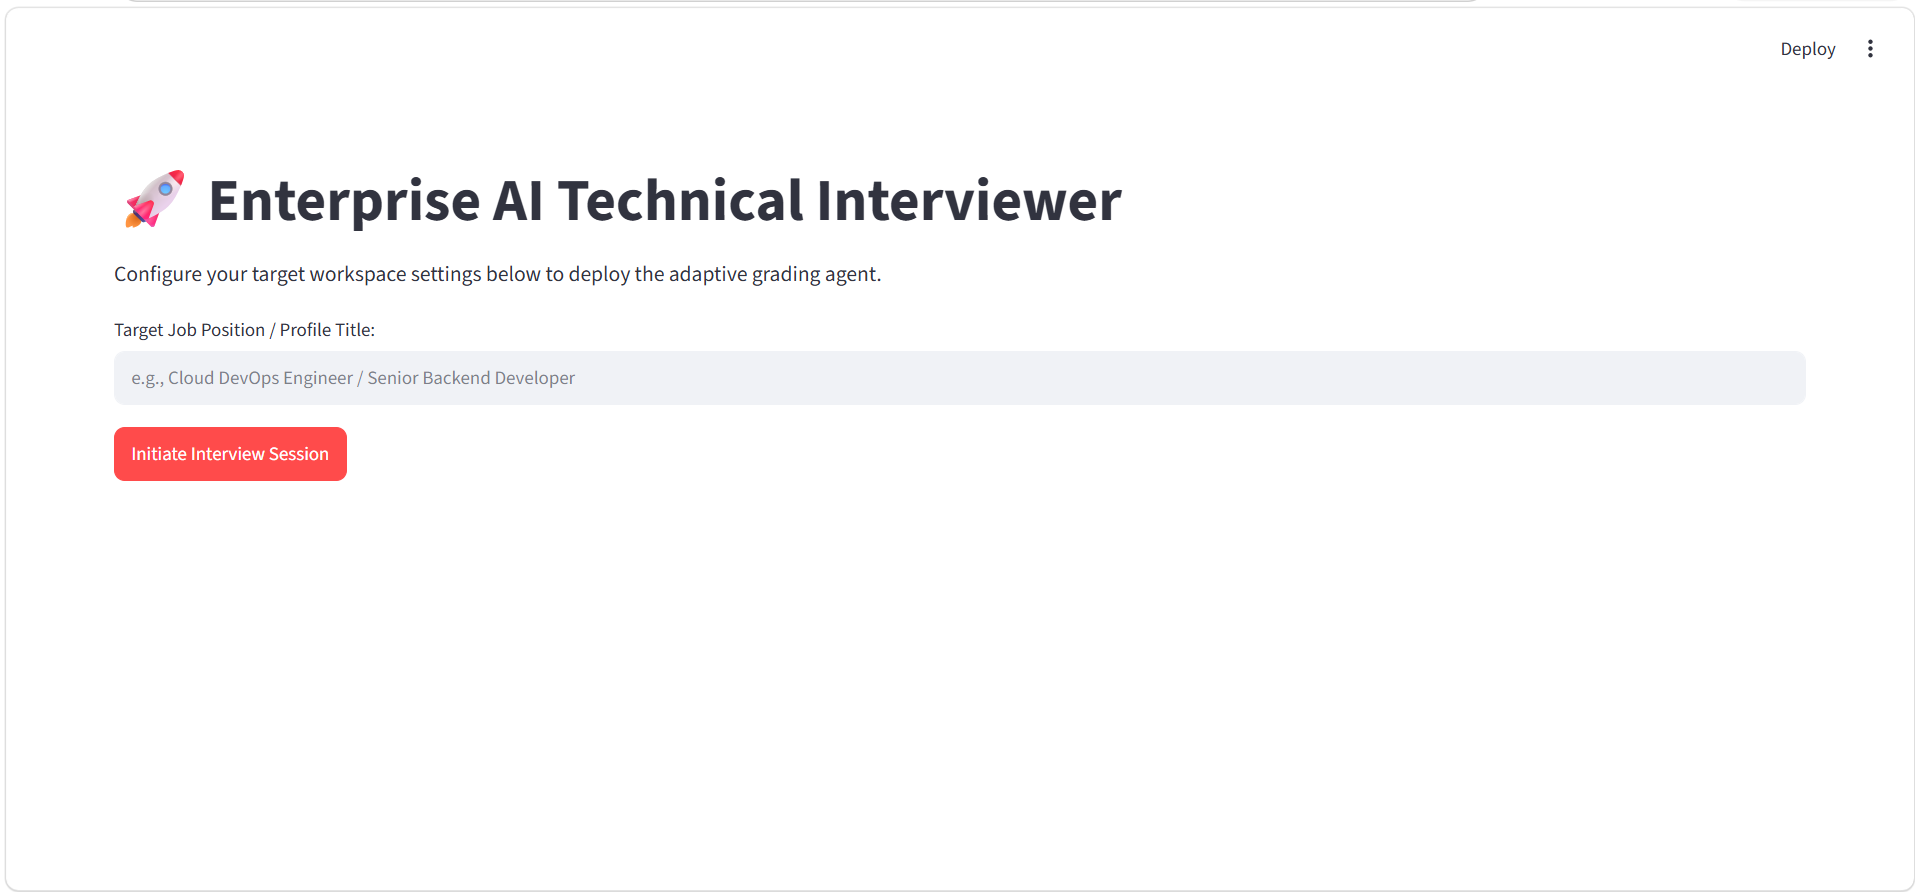
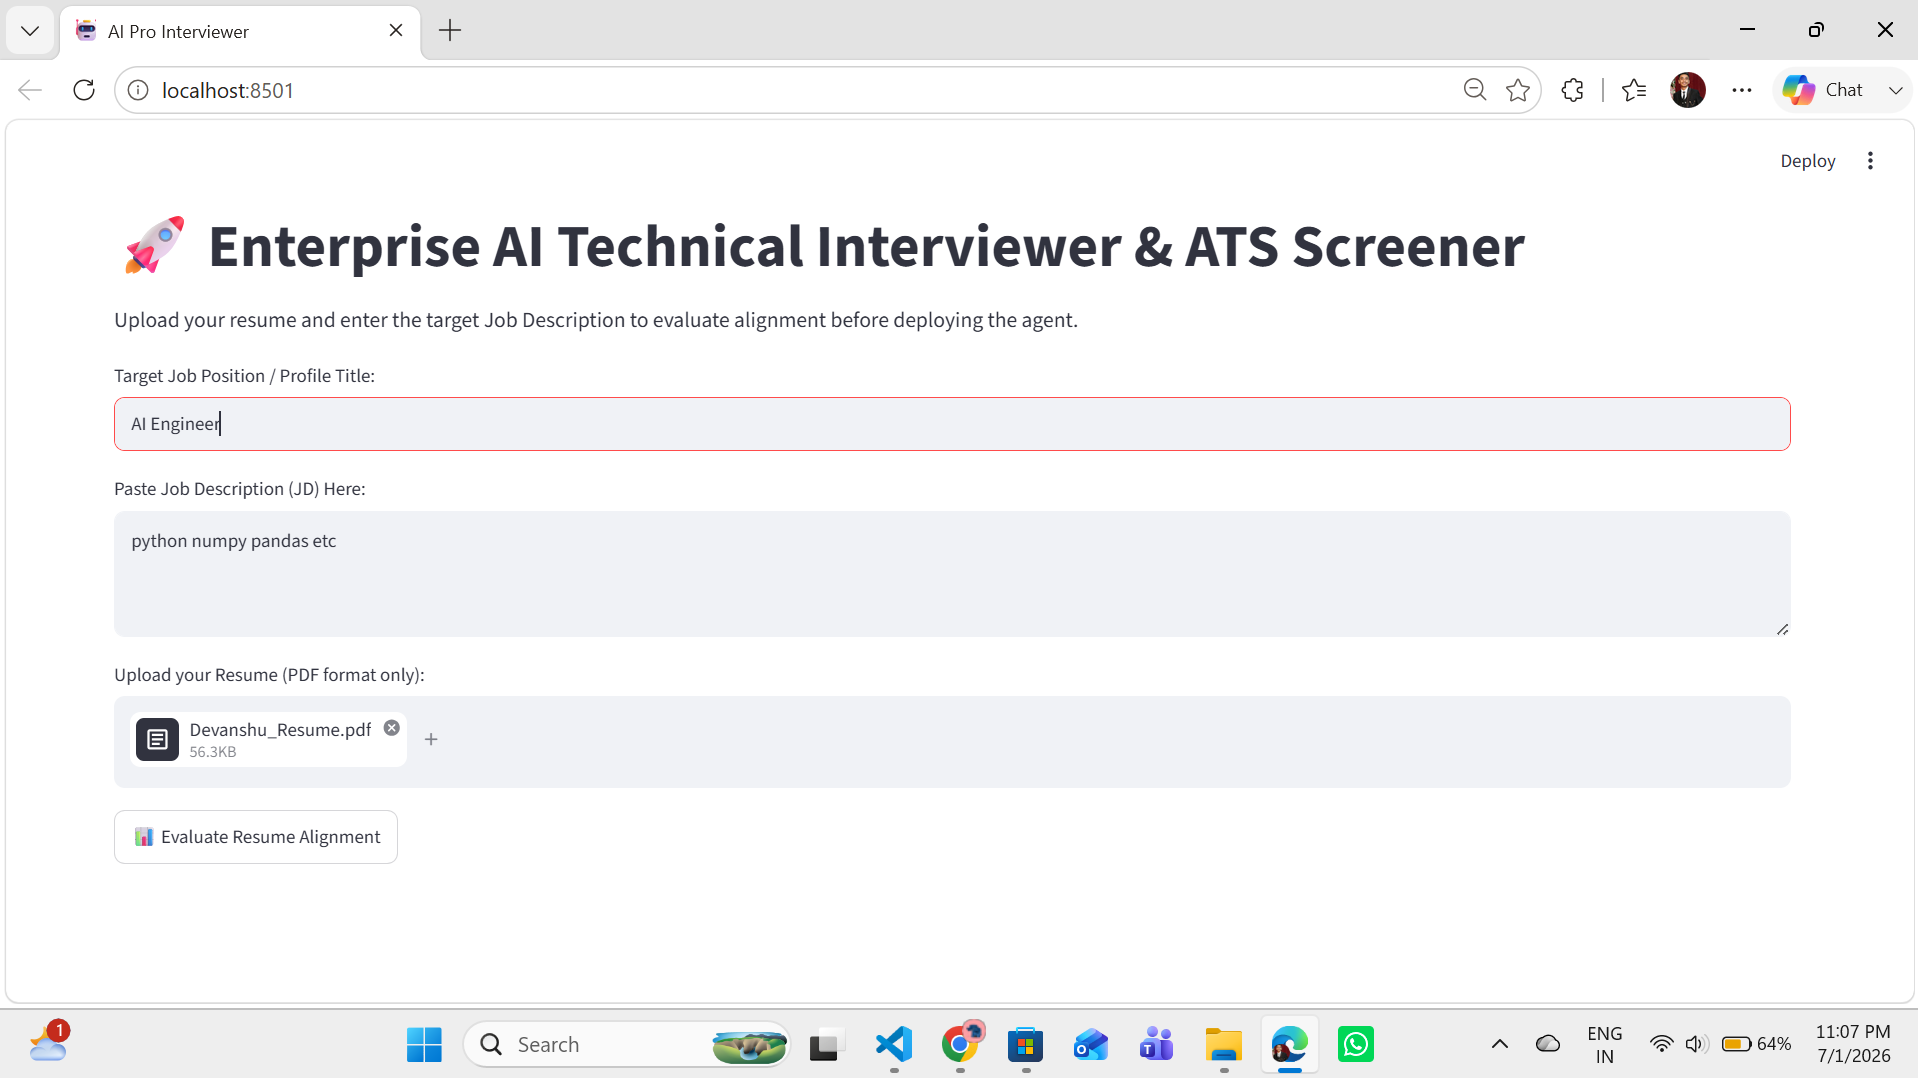
mock-interview

diff --git a/core/ai_engine.py b/core/ai_engine.py
@@ -16,21 +16,75 @@ else:
 # Sabse tez aur best free model technical interview ke liye
 MODEL_NAME = "llama-3.3-70b-versatile"
 
-def get_next_question(role, history):
+
+def check_ats_score(resume_text, job_description):
+    """
+    Compares the uploaded resume with the Job Description using Groq.
+    Returns scores, missing keywords, and screening verdict.
+    """
+    if not client:
+        return "⚠️ GROQ_API_KEY Missing: Cannot parse ATS score."
+
+    prompt = f"""
+You are an advanced ATS (Applicant Tracking System) algorithm and an expert HR data scientist.
+Analyze the provided Resume Text against the Job Description (JD).
+
+Return the evaluation strictly in this markdown format:
+
+### 📊 ATS Match Score: xx%
+---
+**Verdict:** [Proceed to Interview] OR [Resume Needs Improvement - Missing Core Skills]
+---
+### 🔍 Detailed Breakdown:
+* **Missing Key Skills/Keywords:** - ...
+* **Profile Optimization Feedback:** - ...
+* **Why this verdict?** - ...
+
+Job Description (JD):
+{job_description}
+
+Resume Text:
+{resume_text}
+"""
+
+    try:
+        response = client.chat.completions.create(
+            model=MODEL_NAME,
+            messages=[{"role": "user", "content": prompt}],
+            temperature=0.3
+        )
+        return response.choices[0].message.content
+    except Exception as e:
+        return f"ATS Screening Error: {str(e)}"
+
+
+def get_next_question(role, history, job_desc=""):
+    """
+    Generates the next interview question based on the role, previous history,
+    and optionally tailors it to the provided Job Description (JD).
+    """
     if not client:
         return "⚠️ GROQ_API_KEY Missing: Check your .env file setup."
 
-    context = f"""
-You are an elite technical interviewer conducting a live interview for the '{role}' position.
-Review previous conversation and ask ONLY ONE progressive technical interview question.
-Do not explain. Do not give feedback. Do not ask multiple questions.
-Return only the interview question.
+    # Baseline context
+    context = f"You are an elite technical interviewer conducting a live interview for the '{role}' position."
+    
+    # Agar Job Description available hai, toh context ko customize karo
+    if job_desc:
+        context += f"\nHere is the target Job Description for this role:\n{job_desc}\nTailor your questions to map these exact requirements."
+
+    context += """
+Review the previous conversation history and ask ONLY ONE progressive technical interview question.
+CRITICAL LAWS:
+1. Return ONLY the plain text of the question.
+2. Do NOT use markdown formatting, do NOT use bold marks (**), and do NOT use bullet points.
+3. Do NOT explain or give feedback during the conversation.
+4. Keep the question crisp and straightforward.
 """
 
     # History format set karo
     messages = [{"role": "system", "content": context}]
     for m in history:
-        # Groq standard roles use karta hai: 'user' ya 'assistant'
         role_type = "assistant" if m['role'] == "interviewer" else "user"
         messages.append({"role": role_type, "content": m['content']})
 
@@ -43,6 +97,7 @@ Return only the interview question.
         return response.choices[0].message.content
     except Exception as e:
         return f"Groq AI Error: {str(e)}"
+
 
 def get_final_analytics(role, history):
     if not client:

diff --git a/app.py b/app.py
@@ -1,10 +1,11 @@
 import streamlit as st
 import base64
-from core.ai_engine import get_next_question, get_final_analytics
+import pypdf
+from core.ai_engine import get_next_question, get_final_analytics, check_ats_score 
 from core.voice_engine import listen_to_user, generate_audio_base64
-from ui.components import render_camera, DummyVideoProcessor # <- यहाँ इम्पोर्ट कर लिया
+from ui.components import render_camera, DummyVideoProcessor 
 from ui.dashboard import render_scorecard
-from streamlit_webrtc import webrtc_streamer, RTCConfiguration # <- इम्पोर्ट यहाँ शिफ्ट कर दिया
+from streamlit_webrtc import webrtc_streamer, RTCConfiguration 
 
 st.set_page_config(page_title="AI Pro Interviewer", page_icon="🤖", layout="wide")
 
@@ -18,24 +19,53 @@ if "temp_user_response" not in st.session_state: st.session_state.temp_user_resp
 
 MAX_QUESTIONS = 4
 
-# --- STEP 1: INITIAL PROFILE SCREEN ---
+# --- STEP 1: INITIAL PROFILE SCREEN + ATS CHECK ---
 if st.session_state.stage == "SETUP":
-    st.title("🚀 Enterprise AI Technical Interviewer")
-    st.markdown("Configure your target workspace settings below to deploy the adaptive grading agent.")
+    st.title("🚀 Enterprise AI Technical Interviewer & ATS Screener")
+    st.markdown("Upload your resume and enter the target Job Description to evaluate alignment before deploying the agent.")
     
-    role = st.text_input("Target Job Position / Profile Title:", placeholder="e.g., Cloud DevOps Engineer / Senior Backend Developer")
+    role = st.text_input("Target Job Position / Profile Title:", placeholder="e.g., AI/ML Engineer Intern")
+    job_desc = st.text_area("Paste Job Description (JD) Here:", placeholder="Enter the skills, responsibilities, and requirements...")
     
-    if st.button("Initiate Interview Session", type="primary"):
-        if role:
+    uploaded_file = st.file_uploader("Upload your Resume (PDF format only):", type=["pdf"])
+    
+    # Session state to store ATS checked data
+    if "ats_done" not in st.session_state: st.session_state.ats_done = False
+    if "ats_report" not in st.session_state: st.session_state.ats_report = ""
+
+    # Button 1: Check ATS Score
+    if st.button("📊 Evaluate Resume Alignment", type="secondary"):
+        if role and job_desc and uploaded_file:
+            with st.spinner("Parsing PDF and calculating ATS alignment matrix..."):
+                # PDF Text Extraction
+                pdf_reader = pypdf.PdfReader(uploaded_file)
+                resume_text = ""
+                for page in pdf_reader.pages:
+                    resume_text += page.extract_text()
+                
+                # Call ATS function
+                st.session_state.ats_report = check_ats_score(resume_text, job_desc)
+                st.session_state.ats_done = True
+        else:
+            st.warning("Please fill all fields and upload your resume PDF.")
+
+    # Show ATS report if evaluation is done
+    if st.session_state.ats_done:
+        st.write("---")
+        st.markdown("### 📋 ATS Screening Evaluation Results")
+        st.info(st.session_state.ats_report)
+        
+        st.success("✅ Evaluation Complete! You can now initiate your live technical round below.")
+        
+        # Button 2: Lock/Unlock Interview based on state
+        if st.button("Initiate Interview Session 🚀", type="primary"):
             st.session_state.role = role
-            with st.spinner("Generating opening round constraints..."):
+            with st.spinner("Generating targeted opening round constraints..."):
                 st.session_state.curr_q = get_next_question(role, [])
             st.session_state.history.append({"role": "interviewer", "content": st.session_state.curr_q})
             st.session_state.play_trigger = True  
             st.session_state.stage = "LIVE"
             st.rerun()
-        else:
-            st.warning("Please provide a valid corporate profile context.")
 
 # --- STEP 2: ACTIVE LIVE EVALUATION TRACK ---
 elif st.session_state.stage == "LIVE":
@@ -141,16 +171,13 @@ elif st.session_state.stage == "ANALYTICS":
     st.write("---")
 
     with st.spinner("Generating automated technical evaluation report and charts..."):
-        # Groq/AI se final report fetch karega
         report_text = get_final_analytics(st.session_state.role, st.session_state.history)
 
-    # --- SCORE PARSING LOGIC FOR GRAPH ---
     tech_score = 0
     comm_score = 0
     conf_score = 0
 
     try:
-        # Report text me se scores extract karne ke liye helper loop
         for line in report_text.split("\n"):
             if "Technical Score:" in line:
                 tech_score = int(line.split(":")[1].split("/")[0].strip())
@@ -159,10 +186,8 @@ elif st.session_state.stage == "ANALYTICS":
             elif "Confidence Score:" in line:
                 conf_score = int(line.split(":")[1].split("/")[0].strip())
     except Exception:
-        # Fallback values agar parse na ho paye
         tech_score, comm_score, conf_score = 50, 50, 50
 
-    # Layout for Metrics and Charts
     col_metrics, col_chart = st.columns([1, 2])
 
     with col_metrics:
@@ -174,24 +199,20 @@ elif st.session_state.stage == "ANALYTICS":
     with col_chart:
         st.markdown("### 📈 Skill Performance Visualizer")
         
-        # Streamlit Bar Chart data prepration
         chart_data = {
             "Metric": ["Technical", "Communication", "Confidence"],
             "Score": [tech_score, comm_score, conf_score]
         }
         
-        # Render a beautiful native horizontal bar chart
         st.bar_chart(data=chart_data, x="Metric", y="Score", use_container_width=True)
 
     st.write("---")
 
-    # Detailed text area for Strengths, Weaknesses and Suggestions
     st.markdown("### 📋 AI Interviewer Detailed Feedback")
     st.text_area("Detailed Matrix (Strengths & Weaknesses)", value=report_text, height=350, disabled=True)
 
     st.write("---")
     
-    # Reset Button
     if st.button("🔄 Start New Interview Session", type="primary"):
         st.session_state.stage = "SETUP"
         st.session_state.history = []

diff --git a/README.md b/README.md
@@ -1,12 +1,13 @@
-# 🤖 Enterprise AI Technical Interviewer
+# 🤖 Enterprise AI Technical Interviewer & ATS Screener
 
-An advanced, production-grade GenAI Mock Interview platform built using **Streamlit**, **Groq Cloud API (Llama 3.3 70B)**, and **WebRTC/STT Engines**. The application simulates real-world corporate technical rounds with continuous context-aware dynamic questioning, instant speech-to-text processing, automatic voice feedback, and a complete metric analytics dashboard.
+An advanced, production-grade GenAI Mock Interview platform built using **Streamlit**, **Groq Cloud API (Llama 3.3 70B)**, **pypdf**, and **WebRTC/STT Engines**. The application dual-functions as a smart ATS Resume-JD alignment checker and a live simulator for real-world corporate technical rounds with continuous context-aware dynamic questioning, instant speech-to-text processing, automatic voice feedback, and a complete metric analytics dashboard.
 
 ---
 
 ## 🚀 Key Features
 
-* **Dynamic Context-Aware Questioning:** Uses state-of-the-art LLMs via Groq to generate progressive, non-scripted follow-up questions based on previous candidate answers.
+* **Advanced ATS Screening Matrix:** Extracts text from candidate resume PDFs (`pypdf`) and matches it against the target Job Description (JD) using Groq LLM to yield match percentages, missing keywords, and profile optimization verdicts before initiating the live round.
+* **Dynamic Context-Aware Questioning:** Uses state-of-the-art LLMs via Groq to generate progressive, non-scripted follow-up questions based on previous candidate answers and evaluated profile alignment.
 * **Audio Orchestration Engine:** Incorporates native browser TTS (Google Text-to-Speech) loops that read questions automatically, complete with a **Repeat Question** manual override function.
 * **Anti-Bypass Camera Validation:** Security logic monitors WebRTC video tracks; voice recording and audio pipelines are strictly locked/disabled until the camera feed is live.
 * **Interactive Analytics Dashboard:** Parses evaluation metrics dynamically to render real-time comparative charts scoring Technical Depth, Communication, and Confidence.
@@ -16,21 +17,26 @@ An advanced, production-grade GenAI Mock Interview platform built using **Stream
 
 ## 📸 Application Walkthrough & Screenshots
 
-### 1. Initial Profile Setup Screen
-*Before the session begins, the candidate inputs the target job profile and sets up the workspace parameters.*
+### 1. Initial Profile Setup & ATS Screening Screen
+*Before the session begins, the candidate inputs the target job profile, pastes the target Job Description, and uploads their resume PDF to evaluate alignment matrix.*
 
 ![Initial Profile Setup Screen](screenshots/setup_screen.png)
 
+### 2. ATS Screening Evaluation Results
+*Once the alignment matrix evaluation finishes, the system locks/unlocks the live interview round depending on target parameters, displaying a detailed breakdown of verdicts and profile modifications.*
+
+![ATS Screening Results](screenshots/ats_evaluation_results.png)
+
 ---
 
-### 2. Live Interview Interface
+### 3. Live Interview Interface
 *Once active, the system injects automatic question audio, locks verification metrics, monitors the real-time camera track, and waits for voice capture pipelines to initiate.*
 
 ![Live Interview Evaluation Screen](screenshots/live_question_1.png)
 
 ---
 
-### 3. Post-Interview Performance Analytics
+### 4. Post-Interview Performance Analytics
 *After completing the set number of questions, the system aggregates session logs, parses the text stream, and displays a dynamic performance chart along with granular strengths and weaknesses analysis.*
 
 ![Interview Performance Analytics](screenshots/analytics_dashboard.png)
@@ -45,7 +51,7 @@ ai-pro-interviewer/
 │
 ├── core/
 │   ├── __init__.py
-│   ├── ai_engine.py      # Groq LLM Integration & Error-Proof Prompts
+│   ├── ai_engine.py      # Groq LLM Integration, ATS Engine & Error-Proof Prompts
 │   └── voice_engine.py   # Base64 Audio TTS & Speech-to-Text pipelines
 │
 ├── ui/
@@ -54,6 +60,6 @@ ai-pro-interviewer/
 │   └── dashboard.py      # Scorecard Analytics Charts & Feedback UI
 │
 ├── app.py                # Main Router / Controller Node
-├── requirements.txt      # Python Dependencies
+├── requirements.txt      # Python Dependencies (Streamlit, pypdf, groq, etc.)
 ├── .env                  # Environment API Keys (Private)
 └── README.md             # Project Documentation